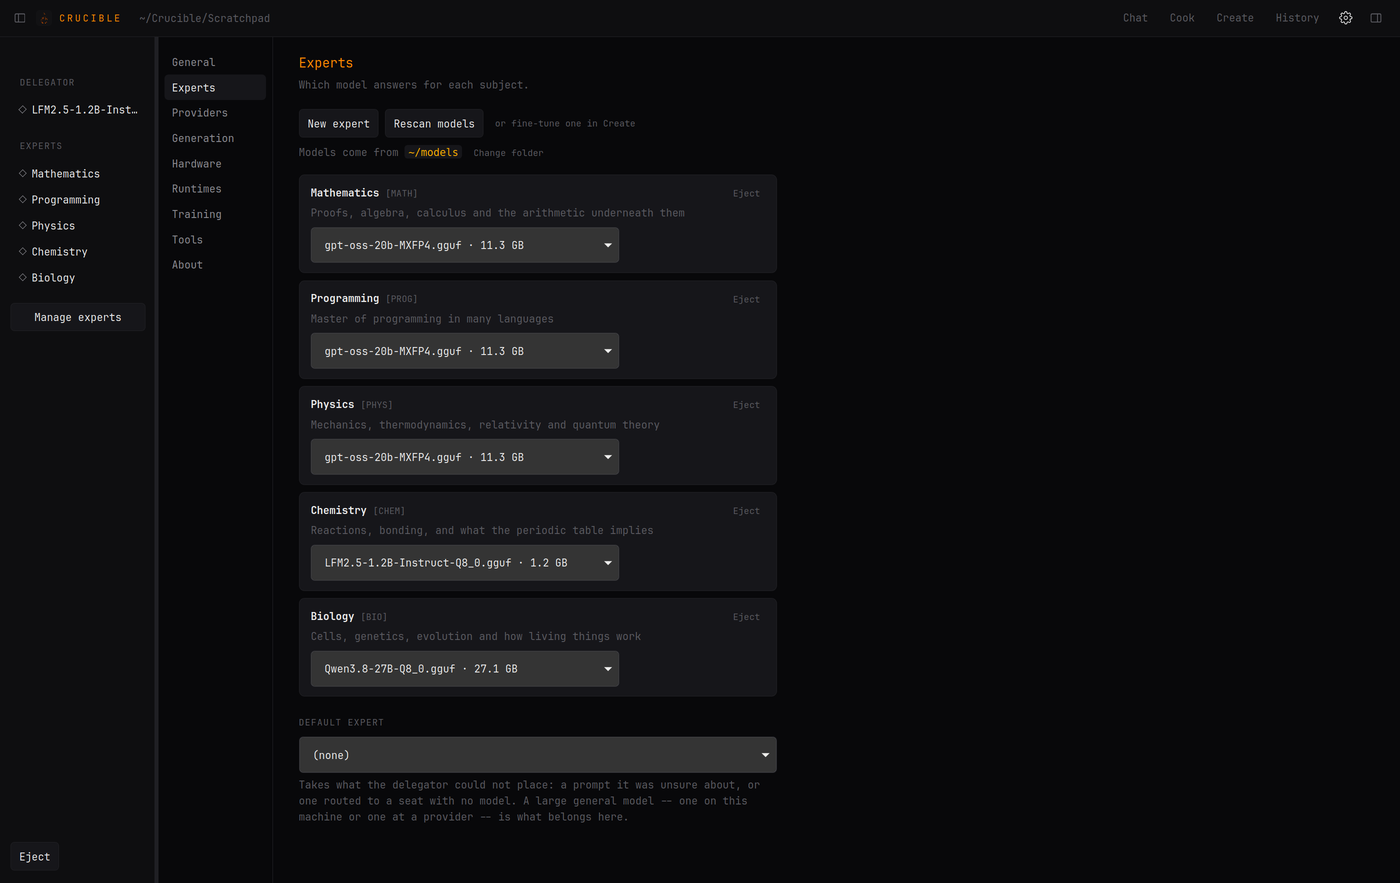
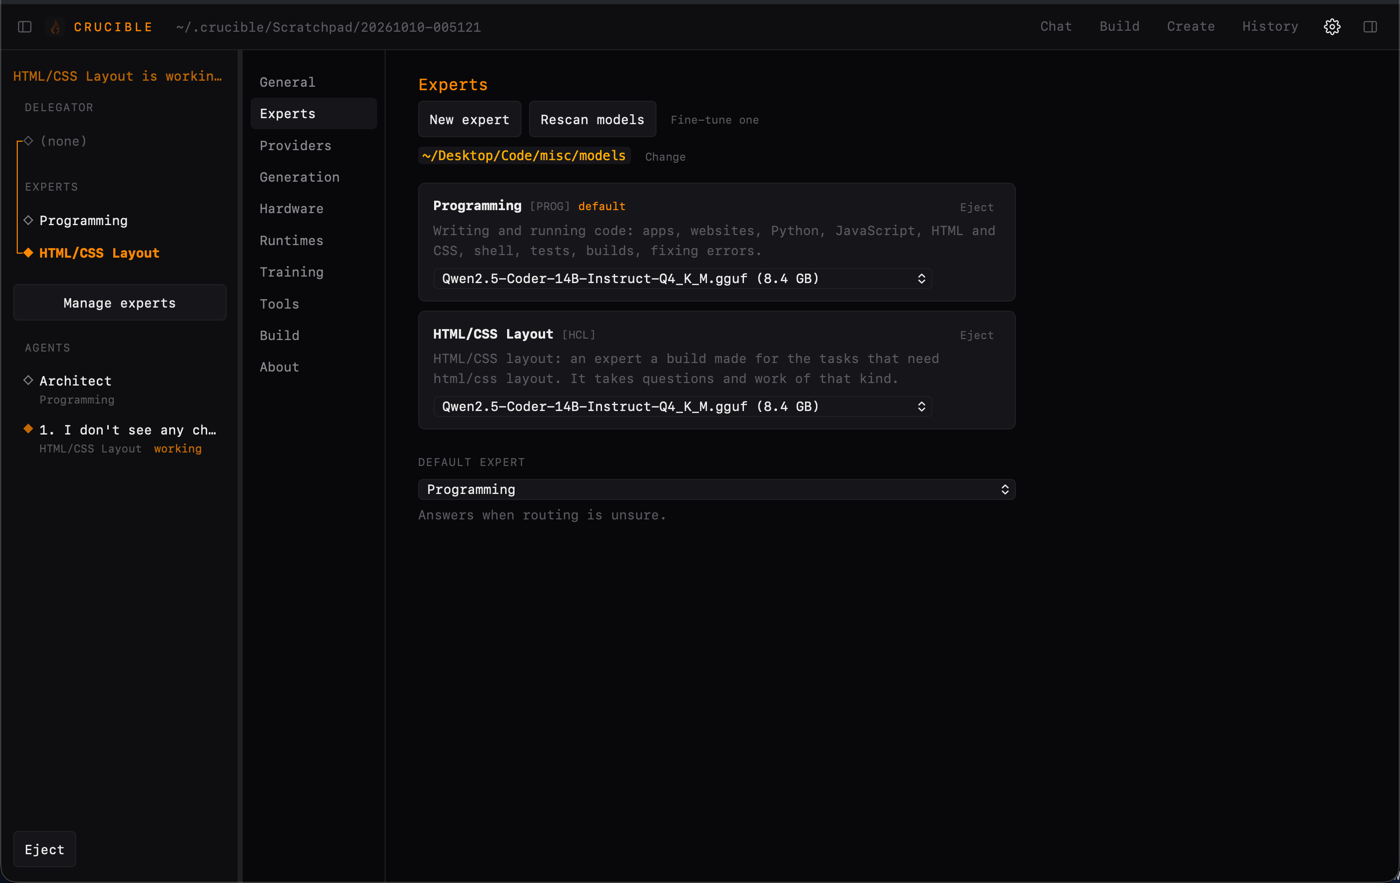
0.8.9: new pictures, and how to test it
The README's pictures are retaken from this version: a build with its
agents in the side menu, the preview with an element picked, the
experts, the runtimes and the history. docs/testing says how to check
a change and a release, the budgeting-app scenario step by step, and
what this Mac's run with a 14B coder found.

READ's line numbers copied into the lines an edit writes now come off
them rather than landing in the file.

diff --git a/src/tools/workshop.cpp b/src/tools/workshop.cpp
@@ -1485,6 +1485,61 @@ std::vector<std::string> without_line_numbers(const std::vector<std::string>& li
     return numbered > 0 && (!spaced || numbered >= 2) ? out : lines;
 }
 
+/// `lines` joined back, with a newline after each when `ends` says the text
+/// had one.
+std::string joined(const std::vector<std::string>& lines, bool ends) {
+    std::string out;
+    for (std::size_t i = 0; i < lines.size(); ++i) {
+        out += lines[i];
+        if (i + 1 < lines.size() || ends) {
+            out += '\n';
+        }
+    }
+    return out;
+}
+
+/// Whether `line` starts with READ's number: digits and a tab.
+bool read_numbered(const std::string& line) {
+    std::size_t at = 0;
+    while (at < line.size() && line[at] == ' ') {
+        ++at;
+    }
+    const std::size_t digits = at;
+    while (at < line.size() && std::isdigit(static_cast<unsigned char>(line[at])) != 0) {
+        ++at;
+    }
+    return at > digits && at - digits <= 6 && at < line.size() && line[at] == '\t';
+}
+
+/// REPLACE lines with READ's numbers taken off. A model that copied them
+/// into the SEARCH copies them into the lines it writes too, and they would
+/// land in the file as text: "51<tab></body>". Taken off when the SEARCH had
+/// them, or when every line written has one -- READ's own format, digits and
+/// a tab, which no file line starts with by chance on every line.
+std::string without_read_numbers(const std::string& text, bool search_had_them) {
+    std::vector<std::string> lines = split_lines(text);
+    bool every = false;
+    for (const std::string& line : lines) {
+        if (trim(line).empty()) {
+            continue;
+        }
+        if (!read_numbered(line)) {
+            every = false;
+            break;
+        }
+        every = true;
+    }
+    if (!search_had_them && !every) {
+        return text;
+    }
+    for (std::string& line : lines) {
+        if (read_numbered(line)) {
+            line.erase(0, line.find('\t') + 1);
+        }
+    }
+    return joined(lines, !text.empty() && text.back() == '\n');
+}
+
 /// Where `wanted` is in `lines`, compared without indentation -- and, when
 /// `skip_blank`, without the blank lines either side may have that the other
 /// has not. Each match is the first line and how many lines of the file it
@@ -1560,19 +1615,6 @@ std::string nearest_lines(const std::vector<std::string>& lines, const std::vect
     std::string out;
     for (std::size_t k = 0; k < span && best_at + k < lines.size(); ++k) {
         out += std::to_string(best_at + k + 1) + "\t" + lines[best_at + k] + "\n";
-    }
-    return out;
-}
-
-/// `lines` joined back, with a newline after each when `ends` says the text
-/// had one.
-std::string joined(const std::vector<std::string>& lines, bool ends) {
-    std::string out;
-    for (std::size_t i = 0; i < lines.size(); ++i) {
-        out += lines[i];
-        if (i + 1 < lines.size() || ends) {
-            out += '\n';
-        }
     }
     return out;
 }
@@ -1655,7 +1697,7 @@ std::optional<std::string> apply_edit_blocks(const std::string& text, const std:
         std::size_t first = 0;
         const std::size_t exact = occurrences(out, block.search, first);
         if (exact == 1) {
-            out.replace(first, block.search.size(), block.replace);
+            out.replace(first, block.search.size(), without_read_numbers(block.replace, false));
             continue;
         }
         if (exact > 1) {
@@ -1670,7 +1712,9 @@ std::optional<std::string> apply_edit_blocks(const std::string& text, const std:
         if (ends && !lines.empty() && lines.back().empty()) {
             lines.pop_back();
         }
-        std::vector<std::string> wanted = without_line_numbers(split_lines(block.search));
+        const std::vector<std::string> written = split_lines(block.search);
+        std::vector<std::string> wanted = without_line_numbers(written);
+        const bool numbered = wanted != written;
         while (!wanted.empty() && trim(wanted.back()).empty()) {
             wanted.pop_back();
         }
@@ -1711,7 +1755,7 @@ std::optional<std::string> apply_edit_blocks(const std::string& text, const std:
         const std::size_t covered = starts.front().second;
         const std::string had  = indent_of(lines[at]);
         const std::string gave = indent_of(wanted.front());
-        std::vector<std::string> replacement = split_lines(block.replace);
+        std::vector<std::string> replacement = split_lines(without_read_numbers(block.replace, numbered));
         while (!replacement.empty() && trim(replacement.back()).empty()) {
             replacement.pop_back();
         }

diff --git a/tests/test_build.cpp b/tests/test_build.cpp
@@ -578,6 +578,11 @@ TEST(an_edit_forgives_what_a_small_model_copies_wrong) {
     out = tools::apply_edit_blocks(page, {{"2 | <h1>Budget</h1>\n3 |\n4 | <button id=\"add\">Add</button>",
                                            "<h1>B</h1>\n<button id=\"add\" class=\"wide\">Add</button>"}}, error);
     CHECK(out.has_value() && out->find("class=\"wide\"") != std::string::npos);
+    // And the numbers it copied into the lines it wrote come off them too,
+    // rather than landing in the file as text.
+    out = tools::apply_edit_blocks(page, {{"5\t</body>", "5\t  <p>total</p>\n6\t</body>"}}, error);
+    CHECK(out.has_value() && out->find("  <p>total</p>\n</body>") != std::string::npos);
+    CHECK(out.has_value() && out->find("6\t") == std::string::npos);
     // A blank line the model left out.
     out = tools::apply_edit_blocks(page, {{"<h1>Budget</h1>\n<button id=\"add\">Add</button>",
                                            "<h1>Budget</h1>\n<button id=\"add\">Plus</button>"}}, error);

diff --git a/docs/testing/README.md b/docs/testing/README.md
@@ -1,0 +1,88 @@
+# Testing Crucible
+
+How to check a change, and how to check a release. Written for a Linux machine
+with a GPU; the same steps work on macOS and Windows.
+
+## Every change
+
+```sh
+cmake -B build -DCMAKE_BUILD_TYPE=Release -DCRUCIBLE_BUILD_TESTS=ON
+cmake --build build -j$(nproc)
+build/bin/crucible_tests                                   # C++ and the page (JavaScriptCore)
+python3 -m unittest discover -s scripts/orchestrator/tests # the orchestrator
+bash tests/test_install.sh && bash tests/test_uninstall.sh # the installers
+```
+
+All three must pass. CI runs them on Linux, macOS and Windows for every push;
+a failed C++ test shows on the commit as an annotation (case, file, line).
+
+Optional, with a vision model and its `mmproj` file in the same folder:
+
+```sh
+CRUCIBLE_VISION_MODEL=/path/to/SmolVLM-256M-Instruct-Q8_0.gguf build/bin/crucible_tests
+```
+
+## Before a release: the budgeting app
+
+The acceptance test. Use the best model the machine runs: a 30B coder
+(Qwen3-Coder-30B-A3B) or a provider key. A 14B coder works but is slow and
+needs more nudging.
+
+1. **Fresh start.** Move `~/.config/crucible` and `~/.local/share/crucible`
+   aside, start Crucible. It fetches its Python, the runtimes, the kit
+   (gh, Node, a headless browser, RapidOCR), and a model when there is none.
+   Nothing to click.
+2. **Build.** In Build: *I need a budgeting software that gives me charts of
+   my gross and net revenue.* Reply *go* to the plan.
+   - The agents are listed under the experts in the side menu.
+   - The status line and the working agent are orange and breathing.
+   - The bottom right shows the model in memory (and the provider's cost,
+     with a key).
+3. **Use it.** Preview: type two numbers, press Save, see two bar charts.
+4. **Change a color.** *Change the color from red to blue* (whatever color it
+   came out). One task, no plan question; the preview updates.
+5. **Move a button.** *Move the Save button farther away from the side.*
+6. **Ship it.** Make it an app. Open it from the applications menu, type
+   numbers, Save, close it, open it again: the numbers are still there.
+7. **Tune by eye.** Preview, Pick an element, change padding or color,
+   Apply to source.
+
+Note what failed and how long each step took.
+
+## Where to look when something goes wrong
+
+| what | where |
+|---|---|
+| a build, step by step | `~/.local/share/crucible/projects/<project>/cooks/*.json` |
+| what a failed EDIT tried | that step's `detail` |
+| logs | `~/.local/share/crucible/crucible.log`, `crash.log` |
+| chats' folders | `~/.crucible/Scratchpad` |
+| settings | `~/.config/crucible/config.json` |
+
+## Without a window
+
+```sh
+build/bin/crucible-smoke - model.gguf "a question"
+build/bin/crucible-smoke --build model.gguf "a directive" "a question asked while it builds"
+```
+
+Exits non-zero when the turn or the build failed.
+
+## Releasing
+
+1. Set the version in `CMakeLists.txt`, `packaging/macos/dmg.sh`,
+   `packaging/windows/crucible.iss`, `CHANGELOG.md` and `README.md`
+   (`tests/test_install.sh` checks they agree).
+2. Push to `main` and wait for CI to pass on all three systems.
+3. Tag and push the tag: `git tag v0.8.9 && git push origin v0.8.9`.
+   The installers workflow builds the three installers and publishes the
+   release.
+
+## Seen on 2026-10-10
+
+macOS, M4, 24 GB, Qwen2.5-Coder-14B, no provider. Each task took 5 to 15
+minutes. Fixed along the way: plans split into many tasks when one was asked
+for, a "check" written as a sentence and run as a command, edits that copied
+READ's line numbers, `RUN: RENDER:`. Still weak at that size: the model edits
+from memory instead of the file, and sometimes writes over a whole file. Worth
+re-running on a bigger model.

diff --git a/CHANGELOG.md b/CHANGELOG.md
@@ -244,7 +244,8 @@ the model wrote, so the step shows what it tried beside why it did not apply
 -- one turned out to be Chart.js's documentation example, recited -- and when
 nothing like them is in a short file, the model is told to write it whole. A
 block that goes straight from SEARCH to REPLACE takes its lines out, which is
-how a small model asks for a deletion.
+how a small model asks for a deletion; and READ's line numbers copied into the
+lines it writes come off them, rather than landing in the file as text.
 
 **A build does what it is told about its size, and checks only what can be
 run.** Asked for "in one task", it is one task, whatever the architect cut it

diff --git a/README.md b/README.md
@@ -218,7 +218,8 @@ specific guidelines:
 3. Contributor MUST look at/document code and code changes. You need to
    understand the code that is being written.
 
-Every push is built and tested on Linux, macOS and Windows.
+Every push is built and tested on Linux, macOS and Windows. How to test a
+change or a release: [docs/testing](docs/testing/README.md).
 
 ___
 ## License
